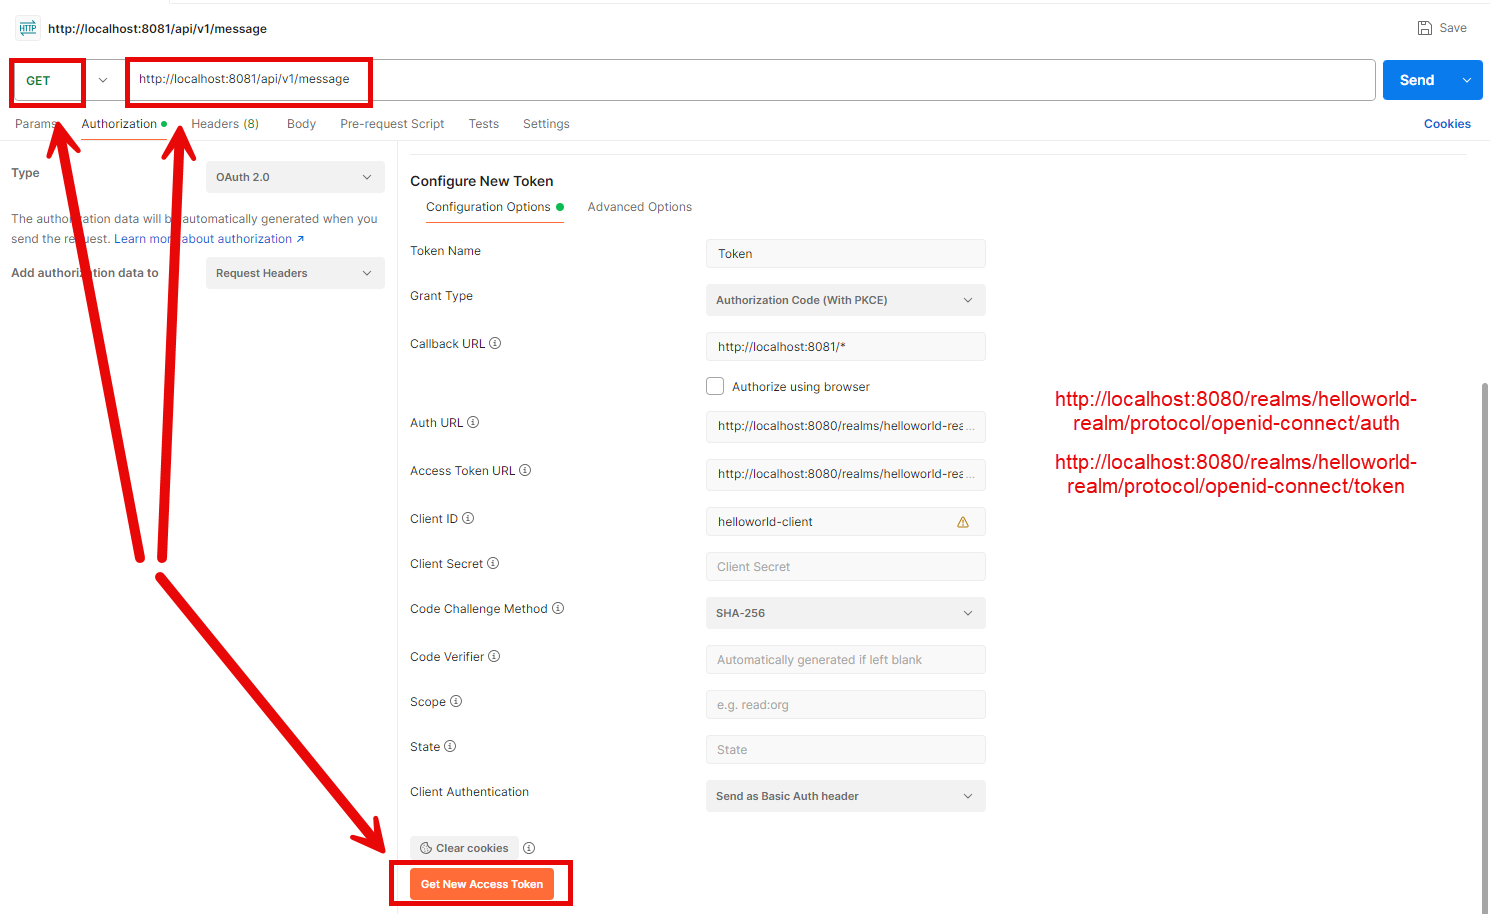
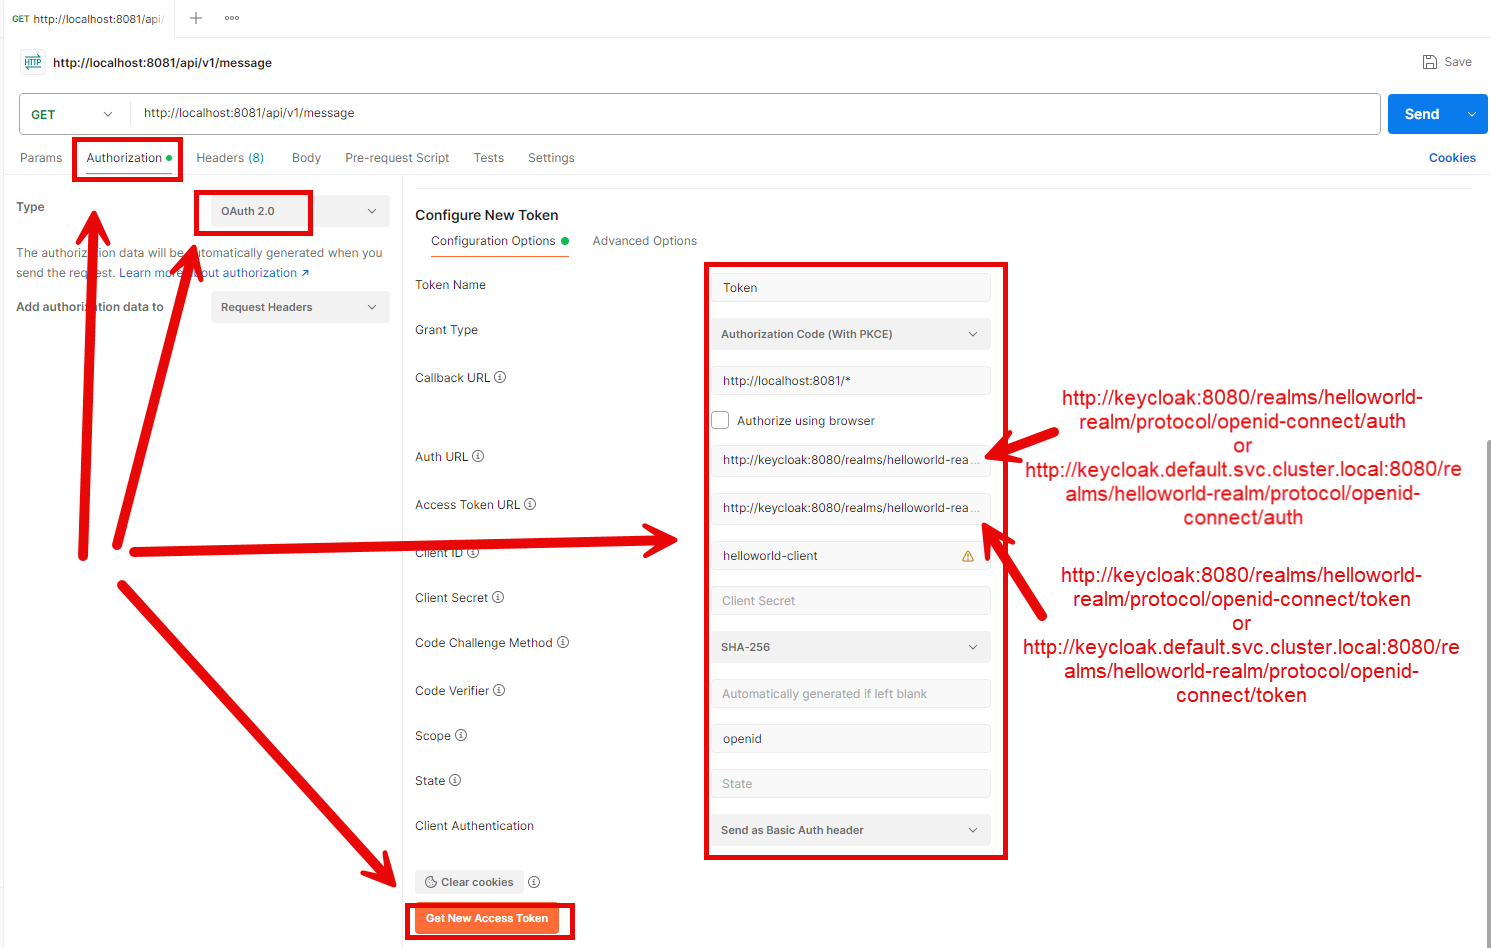
Update readme images

diff --git a/others/security/keycloak/api/springboot3-api-rest-security-resourceserver-tokenrelay/README.md b/others/security/keycloak/api/springboot3-api-rest-security-resourceserver-tokenrelay/README.md
@@ -3,7 +3,9 @@ EXAMPLE
 
 ![My Image](readme-images/image-01.png)
 
-![My Image](readme-images/image-02.png)
+![My Image](readme-images/image-02a.png)
+
+![My Image](readme-images/image-02b.png)
 
 ![My Image](readme-images/image-03.png)
 
